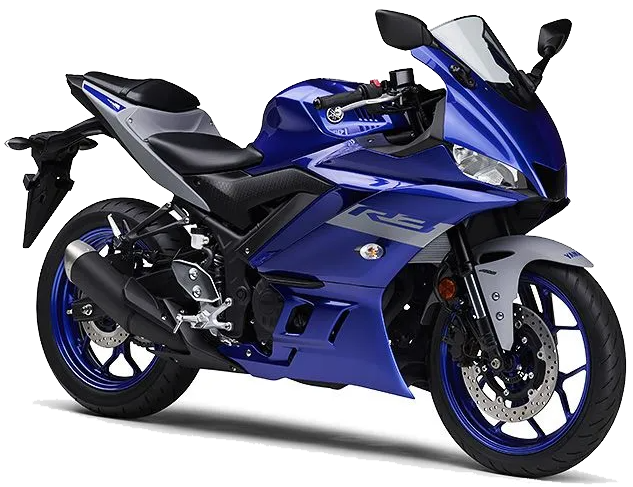
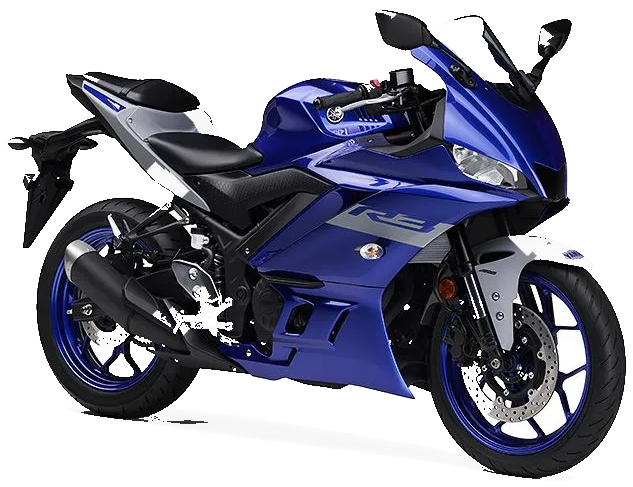
fix: 라이더 마커 배경 투명화 + 이동 방향 좌우 반전 추가
yamaha.png의 흰 배경/그림자가 실제로는 불투명(alpha=255)이라 지도 위에
사각형으로 보이는 문제를 고쳤다. 테두리에서 연결된 배경만 지우는
flood-fill이라 앞유리 반사광·앞휀더 흰색처럼 오토바이 자체에 붙은
밝은 부분은 건드리지 않는다. 배 밑판(belly pan)과 바퀴 아래 사이의
고립된 흰 웅덩이는 테두리와 연결이 끊겨 있어 별도로 좌표 지정해 제거했다.

배경이 투명해지며 실루엣 바닥 비율이 바뀌어(0.996→0.982) 마커 anchor
offsetY도 49→48로 다시 계산했다.

측면 사진이라 임의 각도 회전은 부자연스러워서(예: 90도 돌리면 넘어진
것처럼 보임), 이동 방향 표현은 좌우 반전 두 상태로만 근사했다.
직전·현재 위경도의 경도 delta로 판단하고, 정지 재전송·GPS 지터가
방향을 뒤집지 않도록 11m dead zone을 뒀다.

Claude-Session: https://claude.ai/code/session_01EFh6VQRQ68G1JaX6prvG7L

diff --git a/frontend/src/routes/customer/_authed/deliveries/$deliveryId/-components/TrackingMap.tsx b/frontend/src/routes/customer/_authed/deliveries/$deliveryId/-components/TrackingMap.tsx
@@ -1,5 +1,6 @@
 import { useEffect, useRef, useState } from 'react'
 import riderMarkerSrc from '@/assets/yamaha.png'
+import riderMarkerFlippedSrc from '@/assets/yamaha-flipped.png'
 import { loadKakaoMaps } from '@/lib/kakaoMaps'
 import type { LocationPing } from '@/shared/hooks/useTrackingStream'
 
@@ -15,11 +16,12 @@ const DEFAULT_CENTER = { latitude: 37.5665, longitude: 126.978 }
  *
  * 원본은 633×487 이고, 핀처럼 뾰족한 꼭짓점이 없는 일반 사진이라 **바퀴가 지면에 닿는
  * 아래-가운데**를 좌표에 맞춘다. 불투명 픽셀 경계를 실측한 값이 기준이다 — 가로 중심은
- * 폭의 0.498, 아래 끝은 높이의 0.996 지점이다(오토바이가 프레임을 거의 꽉 채운다).
+ * 폭의 0.500, 아래 끝은 높이의 0.982 지점이다(오토바이가 프레임을 거의 꽉 채운다).
  *
  * 화면에는 원본 비율(1.300)을 유지해 64×49 로 축소해 그리므로 offset 도 같은 비율로
- * 줄인다 — 64×0.498≈32, 49×0.996≈49. offset 을 빼먹으면 이미지 중앙이 좌표에 놓여
- * 마커가 실제 위치보다 위쪽을 가리킨다.
+ * 줄인다 — 64×0.500=32, 49×0.982≈48. offset 을 빼먹으면 이미지 중앙이 좌표에 놓여
+ * 마커가 실제 위치보다 위쪽을 가리킨다. `yamaha-flipped.png`는 `yamaha.png`를 가로로
+ * 뒤집기만 한 것이라 폭 중심(0.500)이 그대로 유지돼 offsetX 를 공유한다.
  *
  * 다른 이미지로 바꾸려면 **배경이 투명해야 한다**(불투명 배경이면 지도 위에 사각형으로
  * 보인다). 그다음 위와 같이 불투명 영역의 가로 중심·아래 끝 비율을 재서 아래 상수만
@@ -29,8 +31,54 @@ const RIDER_MARKER = {
   width: 64,
   height: 49,
   offsetX: 32,
-  offsetY: 49,
+  offsetY: 48,
 } as const
+
+type Facing = 'right' | 'left'
+
+/**
+ * `yamaha.png` 원본은 정지 사진이라 임의 각도로 돌리면(예: 90도) 오토바이가 넘어진 것처럼
+ * 보인다 — 위에서 내려다본 아이콘이 아니라 옆에서 찍은 사진이기 때문이다. 그래서 방향
+ * 표현은 **좌우 반전 두 가지 상태로만** 근사한다. 원본은 정면(헤드라이트)이 오른쪽을
+ * 향하므로 `right` = 원본, `left` = 좌우 반전(`yamaha-flipped.png`).
+ */
+const MARKER_IMAGE_SRC: Record<Facing, string> = {
+  right: riderMarkerSrc,
+  left: riderMarkerFlippedSrc,
+}
+
+/**
+ * 위경도 delta 가 이 값보다 작으면 방향을 바꾸지 않고 직전 상태를 유지한다. 라이더가
+ * 정지한 채 주기적으로 재전송하는 핑(위치 정책 §7, 정지 시 120초 강제 전송)이나 GPS
+ * 지터로 생기는 미세한 delta 가 매번 마커를 좌우로 떨게 만드는 것을 막는 dead zone이다.
+ * 0.0001도는 적도 기준 약 11m — 라이더 클라이언트의 최소 이동 거리 필터(20m)보다 작아
+ * 실제 이동은 걸러내지 않는다. 남북 이동처럼 경도 변화가 거의 없는 경우도 이 dead zone에
+ * 걸려 직전 방향을 유지하는데, 애초에 측면 사진이라 남북 방향을 표현할 수 없으므로 의도된
+ * 동작이다.
+ */
+const LONGITUDE_DEAD_ZONE = 0.0001
+
+function facingFromMovement(prev: LocationPing | null, next: LocationPing, current: Facing): Facing {
+  if (!prev) {
+    return current
+  }
+  const deltaLongitude = next.longitude - prev.longitude
+  if (deltaLongitude > LONGITUDE_DEAD_ZONE) {
+    return 'right'
+  }
+  if (deltaLongitude < -LONGITUDE_DEAD_ZONE) {
+    return 'left'
+  }
+  return current
+}
+
+function buildMarkerImage(facing: Facing): kakao.maps.MarkerImage {
+  return new window.kakao.maps.MarkerImage(
+    MARKER_IMAGE_SRC[facing],
+    new window.kakao.maps.Size(RIDER_MARKER.width, RIDER_MARKER.height),
+    { offset: new window.kakao.maps.Point(RIDER_MARKER.offsetX, RIDER_MARKER.offsetY) },
+  )
+}
 
 /**
  * 라이더 실시간 위치를 카카오맵에 표시한다. `location`이 없으면(#209 예외 흐름 —
@@ -41,6 +89,8 @@ export function TrackingMap({ location }: TrackingMapProps) {
   const containerRef = useRef<HTMLDivElement>(null)
   const mapRef = useRef<kakao.maps.Map | null>(null)
   const markerRef = useRef<kakao.maps.Marker | null>(null)
+  const previousLocationRef = useRef<LocationPing | null>(null)
+  const facingRef = useRef<Facing>('right')
   const [sdkError, setSdkError] = useState<string | null>(null)
 
   useEffect(() => {
@@ -70,18 +120,21 @@ export function TrackingMap({ location }: TrackingMapProps) {
     }
 
     const position = new window.kakao.maps.LatLng(location.latitude, location.longitude)
+    const nextFacing = facingFromMovement(previousLocationRef.current, location, facingRef.current)
+    const facingChanged = nextFacing !== facingRef.current
+    facingRef.current = nextFacing
+    previousLocationRef.current = location
+
     if (markerRef.current) {
       markerRef.current.setPosition(position)
+      if (facingChanged) {
+        markerRef.current.setImage(buildMarkerImage(nextFacing))
+      }
     } else {
-      const markerImage = new window.kakao.maps.MarkerImage(
-        riderMarkerSrc,
-        new window.kakao.maps.Size(RIDER_MARKER.width, RIDER_MARKER.height),
-        { offset: new window.kakao.maps.Point(RIDER_MARKER.offsetX, RIDER_MARKER.offsetY) },
-      )
       markerRef.current = new window.kakao.maps.Marker({
         position,
         map,
-        image: markerImage,
+        image: buildMarkerImage(nextFacing),
         title: '라이더 위치',
       })
     }

diff --git a/frontend/src/types/kakao-maps.d.ts b/frontend/src/types/kakao-maps.d.ts
@@ -36,6 +36,7 @@ declare global {
       class Marker {
         constructor(options: { position: LatLng; map?: Map; image?: MarkerImage; title?: string })
         setPosition(position: LatLng): void
+        setImage(image: MarkerImage): void
         setMap(map: Map | null): void
       }
 
